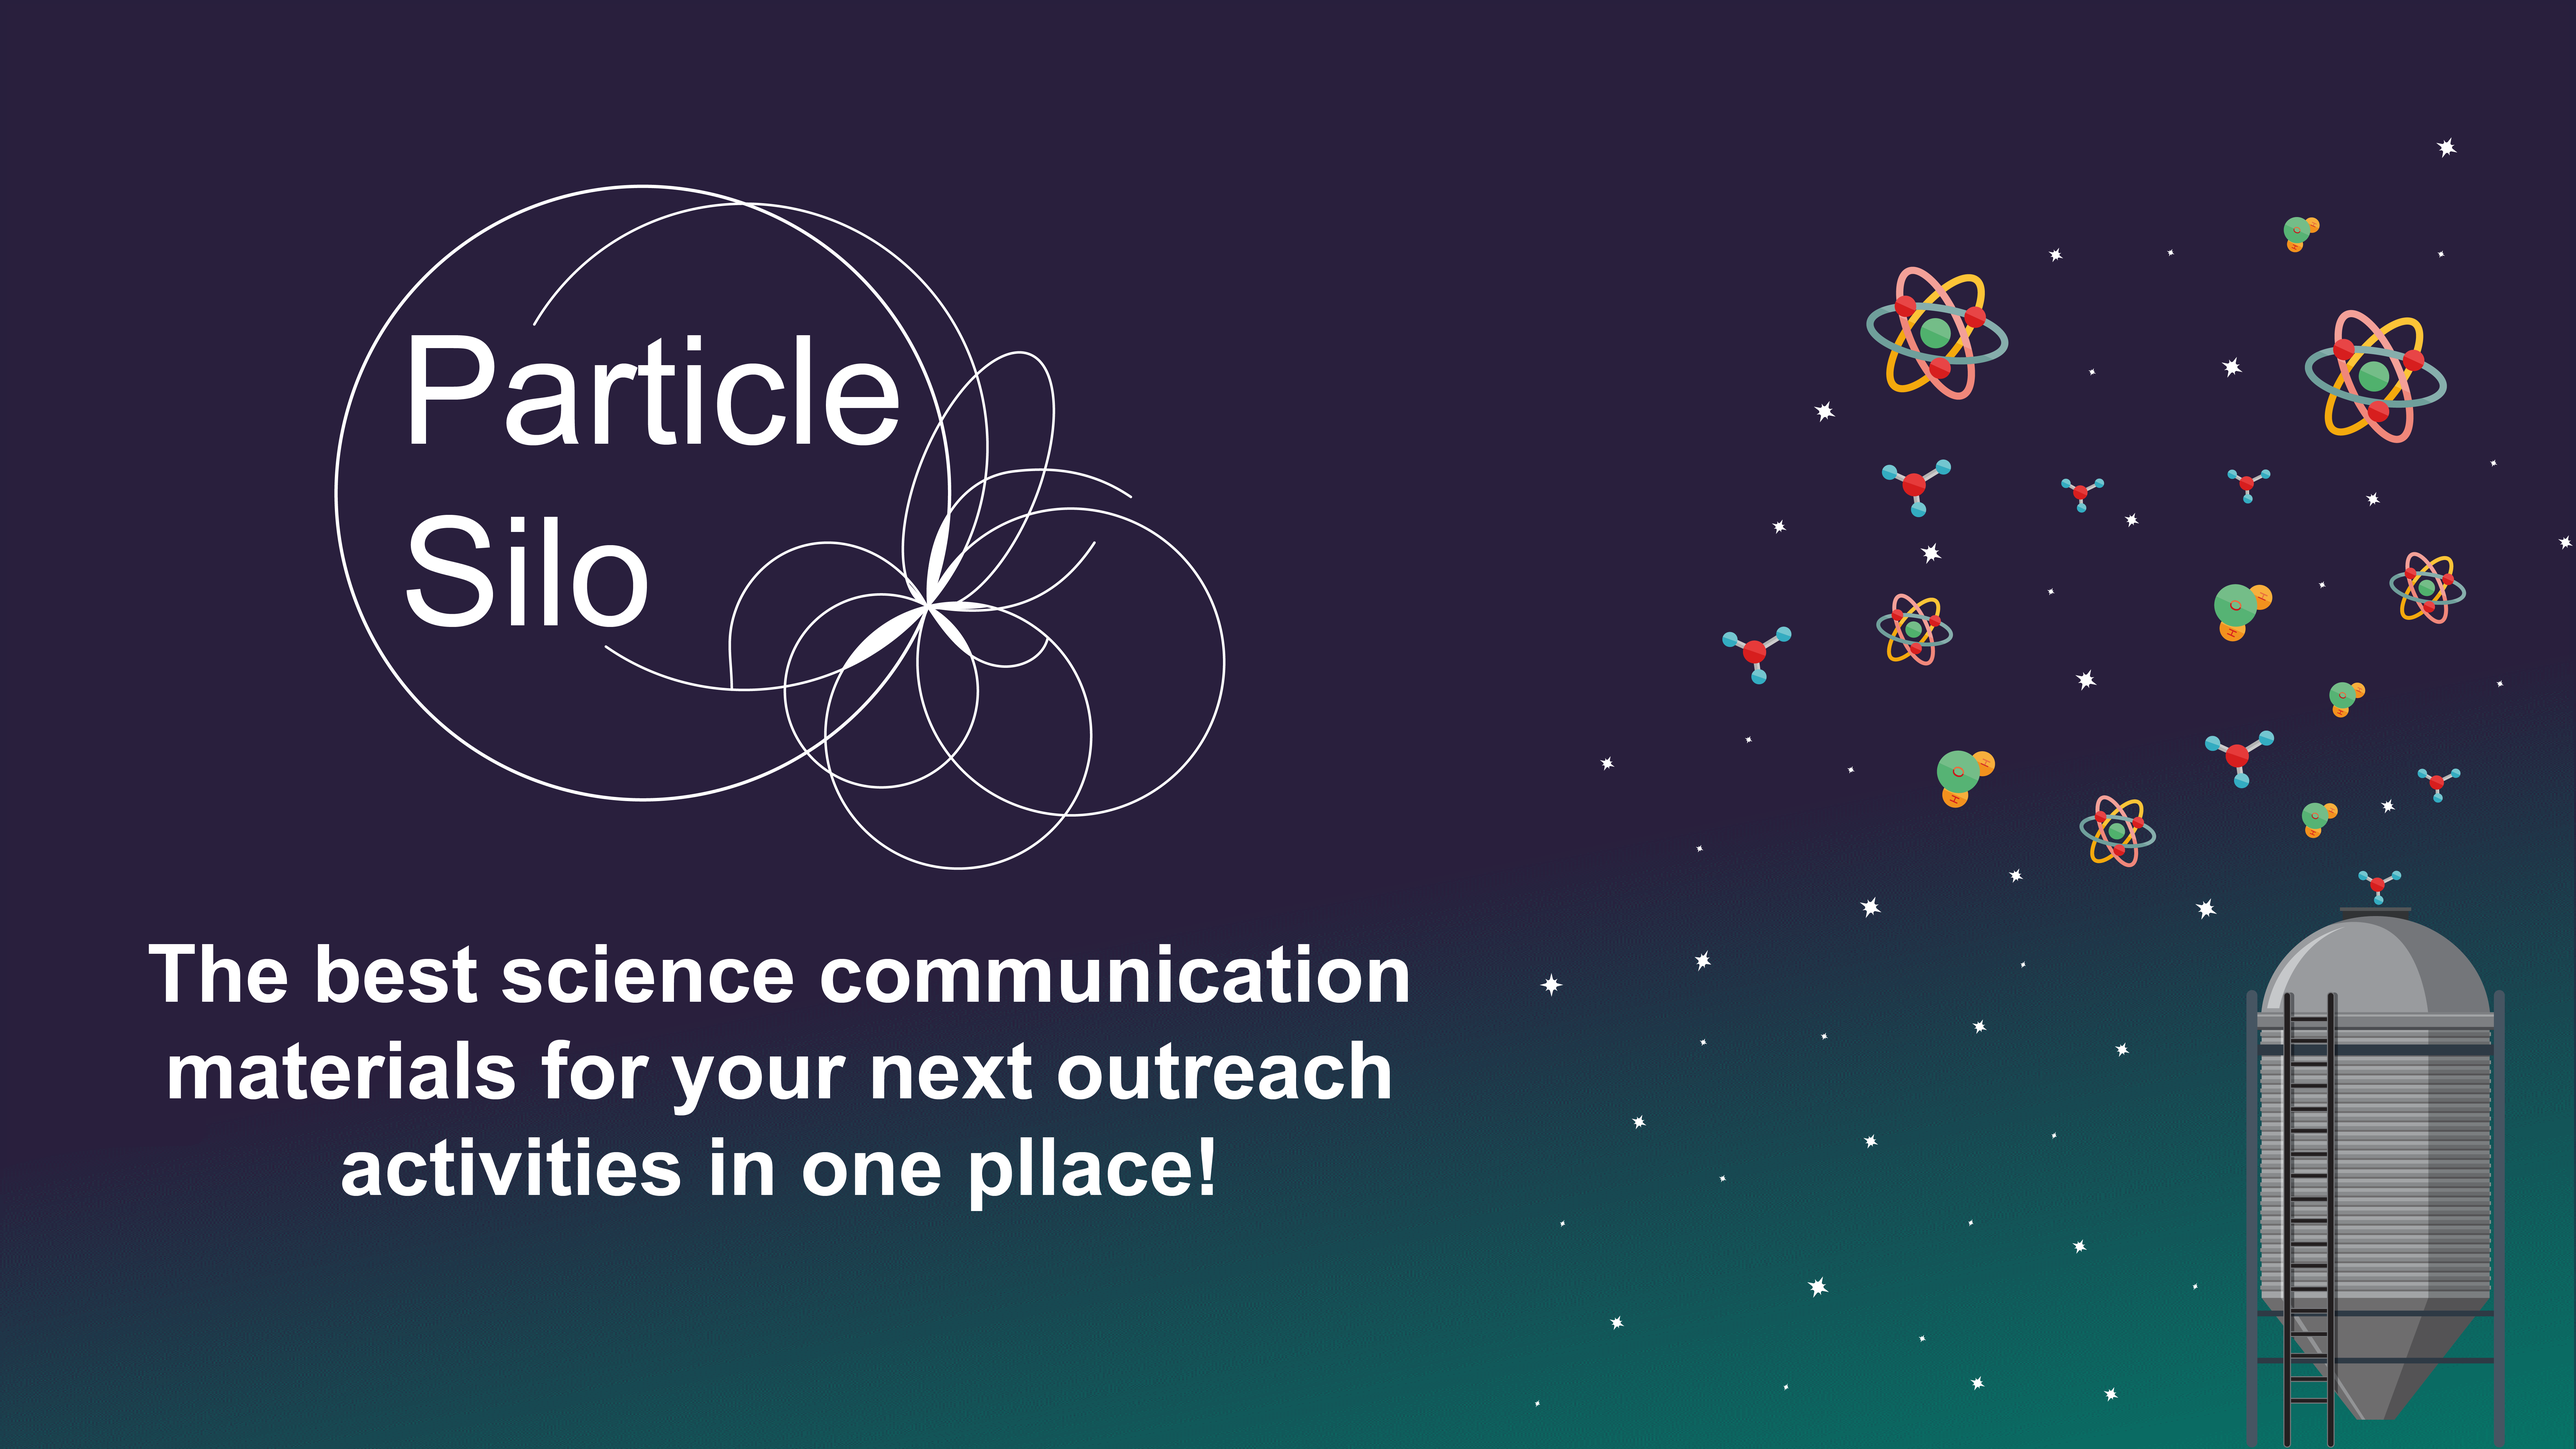
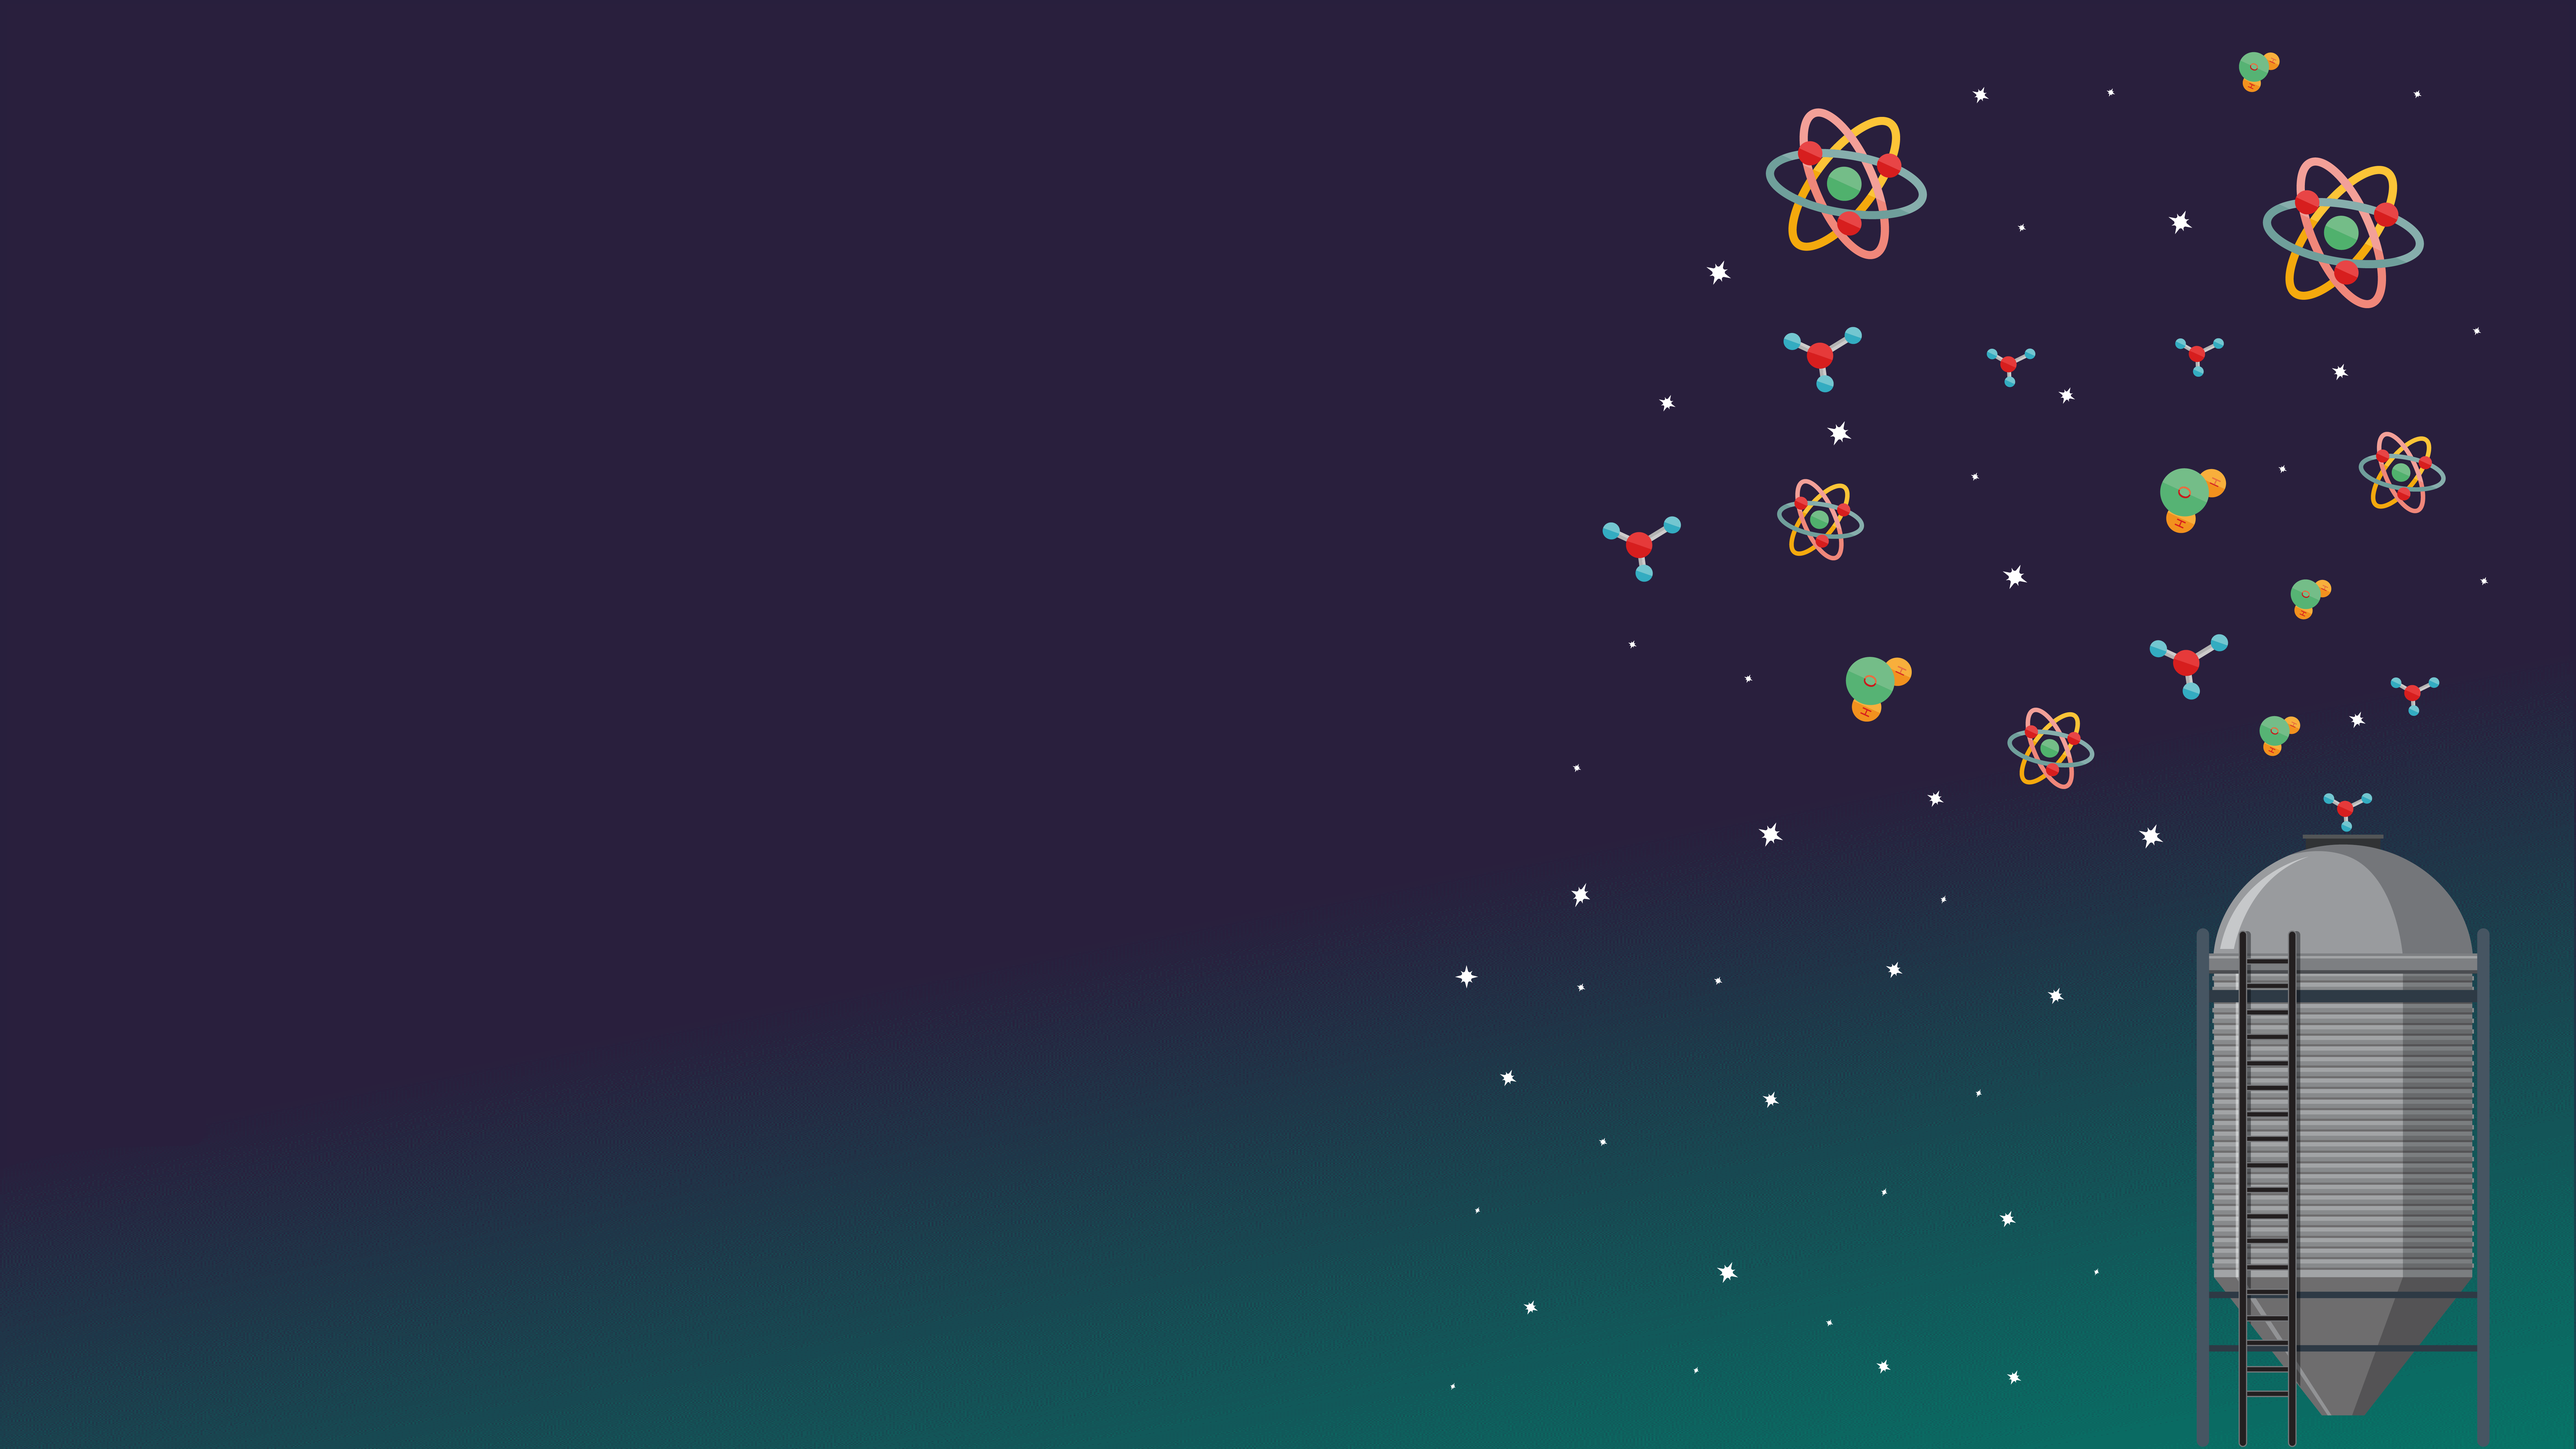
web: edit homepage

diff --git a/web/src/components/Home.js b/web/src/components/Home.js
@@ -1,68 +1,94 @@
-import { Row, Col, Button } from "antd";
+import { Row, Col, Button, Typography } from "antd";
 import { GithubOutlined, TranslationOutlined } from "@ant-design/icons";
 import { Redirect } from "react-router-dom";
 import Background from "../assets/Images Website/Background.png";
+import Splash from "../assets/Images Website/Splash.png";
 
 export const Home = () => {
   return (
-    <Row
-      style={{
-        // height:"80vh",
-        // width:"100%",
-        flexDirection: "row-reverse",
-        justifyContent: "flex-start",
-        margin: "10em 3em",
-      }}
-    >
-      <Col
-        style={{
-          display: "flex",
-          justifyContent: "space-between",
-          minWidth: "200px",
-        }}
-      >
-        <Button
+    <div>
+      <Row style={{ flexDirection: "column", justifyContent: "center" }}>
+        <div
           style={{
-            backgroundColor: "#31abc0",
-            color: "white",
-            border: "0",
-            width: "150px",
-            height: "auto",
-            padding: "10px",
-            fontSize: "1.2em",
-            marginRight: "1em",
+            background: `url(${Splash})`,
+            height: "80vh",
+            width: "100%",
+            backgroundSize: "100%",
+            display: "flex",
+            flexDirection: "column",
+            justifyContent: "center",
           }}
-          icon={<GithubOutlined />}
-          onClick={() =>
-            window.open(
-              "https://github.com/particlesilo/particlesilo",
-              "_blank"
-            )
-          }
         >
-          Contribute
-        </Button>
-        <Button
-          style={{
-            backgroundColor: "#31abc0",
-            color: "white",
-            border: "0",
-            width: "150px",
-            height: "auto",
-            padding: "10px",
-            fontSize: "1.2em",
-          }}
-          icon={<TranslationOutlined />}
-          onClick={() =>
-            window.open(
-              "https://github.com/particlesilo/particlesilo/blob/main/README.md",
-              "_blank"
-            )
-          }
-        >
-          Translate
-        </Button>
-      </Col>
-    </Row>
+          <Typography.Title style={{ fontSize: "5em", marginBottom:"0" }}>
+            Particle Silo
+          </Typography.Title>
+          <Typography.Title style={{ fontSize: "3em" }}>
+            The best Science Communication materials for your next outreach
+            activities in one place!{" "}
+          </Typography.Title>
+          <Row
+            style={{
+              // height:"80vh",
+              // width:"100%",
+              flexDirection: "row-reverse",
+              justifyContent: "center",
+              // margin: "10em 3em",
+            }}
+          >
+            <Col
+              style={{
+                display: "flex",
+                justifyContent: "space-between",
+                minWidth: "200px",
+              }}
+            >
+              <Button
+              type="primary"
+                style={{
+                  // backgroundColor: "#31abc0",
+                  color: "white",
+                  border: "0",
+                  width: "150px",
+                  height: "auto",
+                  padding: "10px",
+                  fontSize: "1.2em",
+                  marginRight: "1em",
+                }}
+                icon={<GithubOutlined />}
+                onClick={() =>
+                  window.open(
+                    "https://github.com/particlesilo/particlesilo",
+                    "_blank"
+                  )
+                }
+              >
+                Contribute
+              </Button>
+              <Button
+              type="primary"
+                style={{
+                  // backgroundColor: "#31abc0",
+                  color: "white",
+                  border: "0",
+                  width: "150px",
+                  height: "auto",
+                  padding: "10px",
+                  fontSize: "1.2em",
+                }}
+                icon={<TranslationOutlined />}
+                onClick={() =>
+                  window.open(
+                    "https://github.com/particlesilo/particlesilo/blob/main/README.md",
+                    "_blank"
+                  )
+                }
+              >
+                Translate
+              </Button>
+            </Col>
+          </Row>
+        </div>
+      </Row>
+    </div>
   );
 };

diff --git a/web/src/components/VideoResources.js b/web/src/components/VideoResources.js
@@ -1,12 +1,12 @@
 import { useEffect, useState } from "react";
 import { FirebaseDB } from "../utils/firebase";
-import { Card, Tag, Typography, Input } from "antd";
+import { Card, Tag, Typography, Input, Tooltip } from "antd";
 import ReactPlayer from "react-player";
 import PlainBackground from "../assets/Images Website/Background_old.png";
 
 const { Meta } = Card;
 const { Title } = Typography;
-const { Search } = Input; 
+const { Search } = Input;
 
 export const VideoResources = () => {
   const [videoData, setVideoData] = useState([]);
@@ -31,9 +31,9 @@ export const VideoResources = () => {
       </div>
     );
   };
-  const onSearch = (value) => { 
-    console.log(value)
-  }
+  const onSearch = (value) => {
+    console.log(value);
+  };
   return (
     <div style={{ background: `url(${PlainBackground})`, minHeight: "85vh" }}>
       <Title>Video Resources</Title>
@@ -57,11 +57,31 @@ export const VideoResources = () => {
         {videoData.map((video) => (
           <Card
             hoverable
-            style={{ width:"500", backgroundColor: "#DAE5FF", margin: "10px" }}
+            style={{
+              maxWidth: "500px",
+              backgroundColor: "#DAE5FF",
+              margin: "10px",
+            }}
             cover={<ReactPlayer url={video.videoUrl} width="500px" />}
           >
             <Meta
-              title={<div style={{ fontSize: "1.4em" }}>{video.name}</div>}
+            style={{
+              color:"black"
+            }}
+              title={
+                <Tooltip title={video.name}>
+                  <Typography.Text
+                    ellipsis={true}
+                    style={{
+                      fontSize: "1.4em",
+                      wordWrap: "break-word",
+                      textOverflow: "ellipsis"
+                    }}
+                  >
+                    {video.name}
+                  </Typography.Text>
+                </Tooltip>
+              }
               description={topics(video.topic)}
             />
           </Card>

diff --git a/web/src/routes/index.js b/web/src/routes/index.js
@@ -8,18 +8,20 @@ import { VideoResources } from "../components/VideoResources";
 import { PresentationResources } from "../components/PresentationResources";
 import { UploadForm } from "../components/UploadForm";
 
-
 export default function Routes() {
   return (
     <AppBar>
       <Switch>
+        <Route path="/upload" component={UploadForm} />
+        <Route path="/tips-tricks" component={TipsTricks} />
+        <Route path="/resources/images" component={ImageResources} />
+        <Route path="/resources/videos" component={VideoResources} />
+        <Route
+          path="/resources/presentations"
+          component={PresentationResources}
+        />
+        <Route path="/resources" component={Resources} />
         <Route exact path="/" component={Home} />
-        <Route exact path="/upload" component={UploadForm}/>
-        <Route exact path="/tips-tricks" component={TipsTricks} />
-        <Route exact path="/resources" component={Resources} />
-        <Route exact path="/resources/images" component={ImageResources} />
-        <Route exact path="/resources/videos" component={VideoResources} />
-        <Route exact path="/resources/presentations" component={PresentationResources} />
       </Switch>
     </AppBar>
   );

diff --git a/web/src/App.less b/web/src/App.less
@@ -57,8 +57,8 @@
   width: auto;
 }
 
-.ant-typography{ 
-  color: #fff !important;
+h1{ 
+  color: #fff !important ;
 }
 
 .ant-form-item-label > label { 
